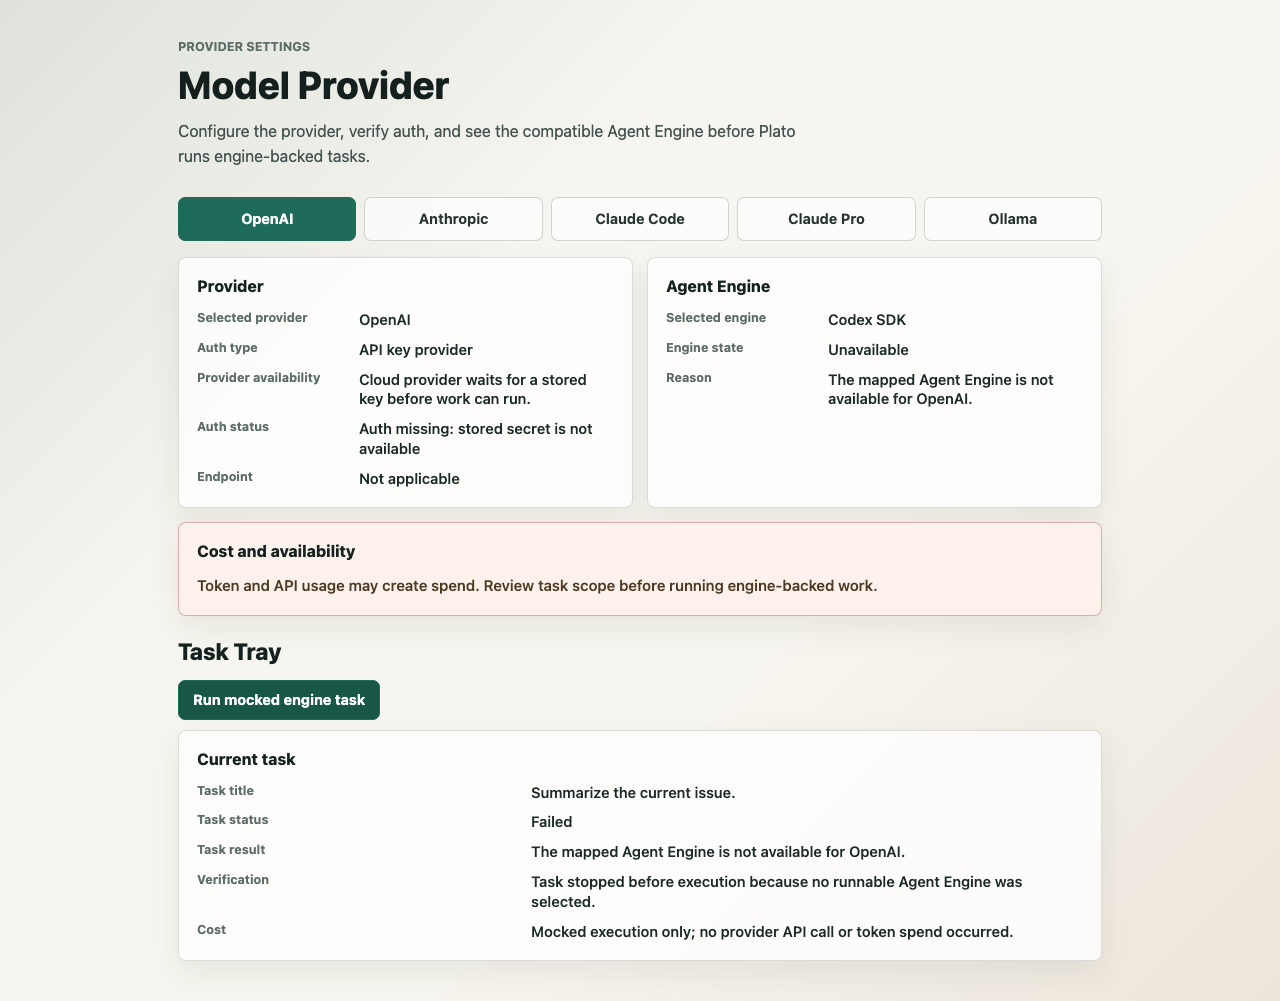
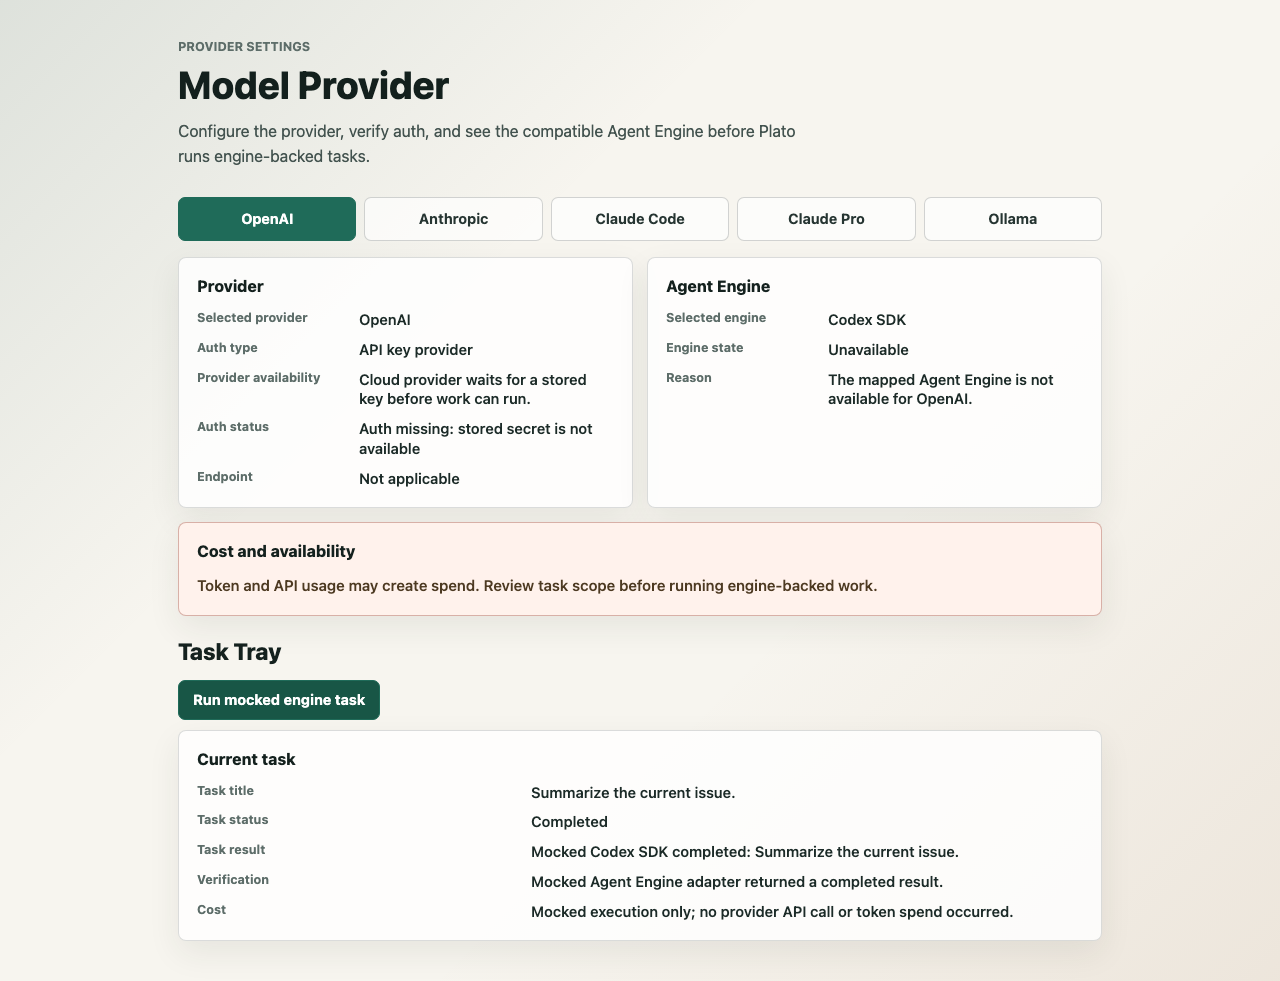
Make default mocked task launch complete
Use mocked task-specific adapters and secret lookup for the visible default launcher, keep real provider settings unconfigured, and generate collision-resistant local task ids.

diff --git a/apps/desktop/src/provider-settings.ts b/apps/desktop/src/provider-settings.ts
@@ -52,6 +52,21 @@ class ProviderSettingsSecretStore implements SecretStore {
   }
 }
 
+class MockedTaskSecretStore implements SecretStore {
+  read(reference: SecretReference): string | null {
+    if (reference.id.startsWith("provider:") && reference.id.endsWith(":api_key")) {
+      return "mocked-provider-secret";
+    }
+
+    return null;
+  }
+
+  write(reference: SecretReference, value: string): void {
+    void reference;
+    void value;
+  }
+}
+
 const openAiSecretReference = createProviderSecretReference({
   providerId: "openai",
   authMode: "api_key",
@@ -65,10 +80,16 @@ const anthropicSecretReference = createProviderSecretReference({
 });
 
 const defaultProviderSettingsSecretStore = new ProviderSettingsSecretStore();
+const defaultMockedTaskSecretStore = new MockedTaskSecretStore();
 
 const defaultRuntimeAdapters = [
   createCodexSdkAgentEngineAdapter({ runtimeAvailable: false }),
   createClaudeAgentSdkAgentEngineAdapter({ runtimeAvailable: false }),
+] satisfies AgentEngineAdapter[];
+
+const defaultMockedTaskAdapters = [
+  createCodexSdkAgentEngineAdapter({ runtimeAvailable: true }),
+  createClaudeAgentSdkAgentEngineAdapter({ runtimeAvailable: true }),
 ] satisfies AgentEngineAdapter[];
 
 const defaultProviders: ProviderOption[] = [
@@ -149,7 +170,9 @@ const defaultProviders: ProviderOption[] = [
 export interface ProviderSettingsOptions {
   providers?: ProviderOption[];
   adapters?: readonly AgentEngineAdapter[];
+  mockedTaskAdapters?: readonly AgentEngineAdapter[];
   secretStore?: SecretStore;
+  mockedTaskSecretStore?: SecretStore;
   repository?: LocalTaskRepository;
   now?: () => Date;
 }
@@ -163,7 +186,13 @@ export function renderProviderSettings(
   const adapters = createAgentEngineAdapterRegistry(
     options.adapters ?? defaultRuntimeAdapters,
   );
+  const mockedTaskAdapters = createAgentEngineAdapterRegistry(
+    options.mockedTaskAdapters ?? defaultMockedTaskAdapters,
+  );
+  const mockedTaskSecretStore =
+    options.mockedTaskSecretStore ?? defaultMockedTaskSecretStore;
   const catalog = createAgentEngineCatalogFromAdapters(adapters);
+  const mockedTaskCatalog = createAgentEngineCatalogFromAdapters(mockedTaskAdapters);
   const repository =
     options.repository ??
     createMemoryLocalTaskRepository({
@@ -403,9 +432,9 @@ export function renderProviderSettings(
       instruction: "Summarize the current issue.",
       authorityMode: "ask_first",
       requiredCapabilities: ["github"],
-      adapters,
-      catalog,
-      secretStore,
+      adapters: mockedTaskAdapters,
+      catalog: mockedTaskCatalog,
+      secretStore: mockedTaskSecretStore,
       repository,
       now: options.now,
       onTaskChanged: async (task) => {

diff --git a/apps/desktop/src/provider-settings.test.ts b/apps/desktop/src/provider-settings.test.ts
@@ -95,6 +95,27 @@ describe("provider settings UI", () => {
   });
 
   it("runs a mocked engine-backed task through the task tray", async () => {
+    const settings = renderSurface();
+
+    await settings.selectProvider("openai");
+    document
+      .querySelector<HTMLButtonElement>("[data-action='launch-mocked-task']")
+      ?.click();
+
+    expect(document.body.textContent).toContain("Running");
+
+    const task = await settings.currentTask;
+
+    expect(task?.status).toBe("completed");
+    expect(factValue("Task status")).toBe("Completed");
+    expect(factValue("Task result")).toContain("Mocked Codex SDK completed");
+    expect(factValue("Cost")).toBe(
+      "Mocked execution only; no provider API call or token spend occurred.",
+    );
+    expect(JSON.stringify(task)).not.toContain("codex_sdk");
+  });
+
+  it("can run a mocked engine-backed task through injected provider configuration", async () => {
     const secretStore = new MemorySecretStore();
     const authState = await createApiKeyProviderAuthState({
       providerId: "openai",
@@ -115,13 +136,13 @@ describe("provider settings UI", () => {
           costWarning: "Mocked execution records cost metadata without spend.",
         },
       ],
-      adapters: [
+      mockedTaskAdapters: [
         createCodexSdkAgentEngineAdapter({
           runtimeAvailable: true,
           now: () => new Date("2026-05-21T13:00:00.000Z"),
         }),
       ],
-      secretStore,
+      mockedTaskSecretStore: secretStore,
       now: () => new Date("2026-05-21T13:00:00.000Z"),
     });
 
@@ -147,8 +168,15 @@ describe("provider settings UI", () => {
   });
 
   it("surfaces unavailable engines in the task tray instead of doing nothing", async () => {
-    const settings = renderSurface();
+    const settings = renderProviderSettings(document.createElement("main"), {
+      mockedTaskAdapters: [
+        createCodexSdkAgentEngineAdapter({
+          runtimeAvailable: false,
+        }),
+      ],
+    });
 
+    document.body.replaceChildren(settings.root);
     await settings.selectProvider("openai");
     document
       .querySelector<HTMLButtonElement>("[data-action='launch-mocked-task']")

diff --git a/packages/agent-engine/src/mocked-engine-task.test.ts b/packages/agent-engine/src/mocked-engine-task.test.ts
@@ -247,4 +247,43 @@ describe("mocked engine-backed task integration", () => {
     expect(task).not.toHaveProperty("providerId");
     expect(task).not.toHaveProperty("engineKind");
   });
+
+  it("generates distinct task ids for tasks created at the same time", async () => {
+    const secretStore = new MemorySecretStore();
+    const authState = await createApiKeyProviderAuthState({
+      providerId: "openai",
+      providerDisplayName: "OpenAI",
+      apiKey: "sk-test",
+      secretStore,
+    });
+    const adapter = createCodexSdkAgentEngineAdapter({
+      runtimeAvailable: true,
+      now: () => new Date("2026-05-21T13:20:00.000Z"),
+    });
+    const adapters = createAgentEngineAdapterRegistry([adapter]);
+    const repository = createMemoryLocalTaskRepository();
+    const input = {
+      provider: {
+        id: "openai",
+        displayName: "OpenAI",
+        kind: "openai" as const,
+        authMode: "api_key" as const,
+        authState,
+      },
+      instruction: "Summarize the current issue.",
+      authorityMode: "ask_first" as const,
+      requiredCapabilities: ["github"],
+      adapters,
+      catalog: createAgentEngineCatalogFromAdapters(adapters),
+      secretStore,
+      repository,
+      now: () => new Date("2026-05-21T13:20:00.000Z"),
+    };
+
+    const firstTask = await runMockedEngineBackedTask(input);
+    const secondTask = await runMockedEngineBackedTask(input);
+
+    expect(firstTask.id).not.toBe(secondTask.id);
+    expect(await repository.list()).toHaveLength(2);
+  });
 });

diff --git a/packages/agent-engine/src/index.ts b/packages/agent-engine/src/index.ts
@@ -211,6 +211,8 @@ export const agentEngineTaskConcepts = [
   "requiredCapabilities",
 ] as const satisfies readonly (keyof AgentTaskRequest)[];
 
+let fallbackTaskIdSequence = 0;
+
 export interface RunMockedEngineBackedTaskInput {
   provider: ModelProvider;
   instruction: string;
@@ -421,7 +423,13 @@ async function saveTask(
 }
 
 function createTaskId(now: () => Date): string {
-  return `task-${now().getTime().toString(36)}`;
+  const randomId = globalThis.crypto?.randomUUID?.();
+  if (randomId) {
+    return `task-${randomId}`;
+  }
+
+  fallbackTaskIdSequence += 1;
+  return `task-${now().getTime().toString(36)}-${fallbackTaskIdSequence.toString(36)}`;
 }
 
 export function createCodexSdkAgentEngineAdapter(input?: {
